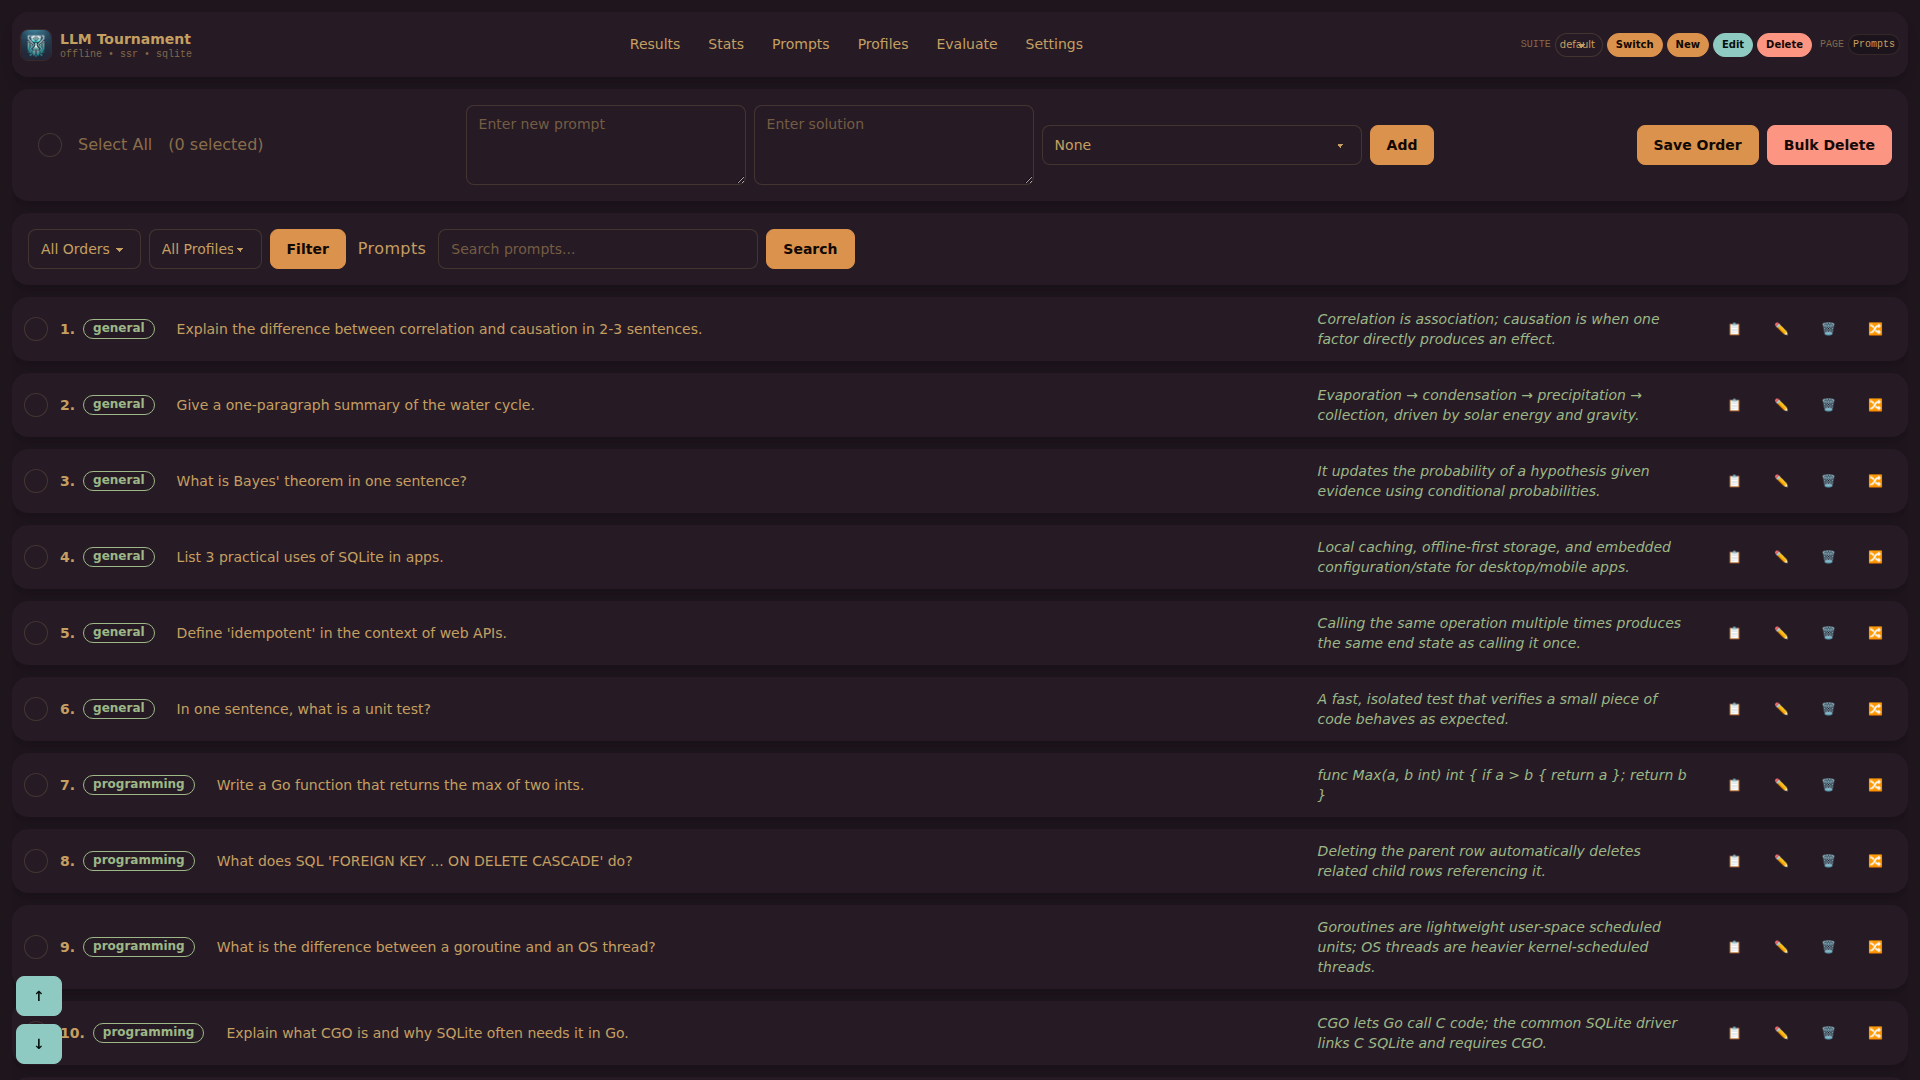
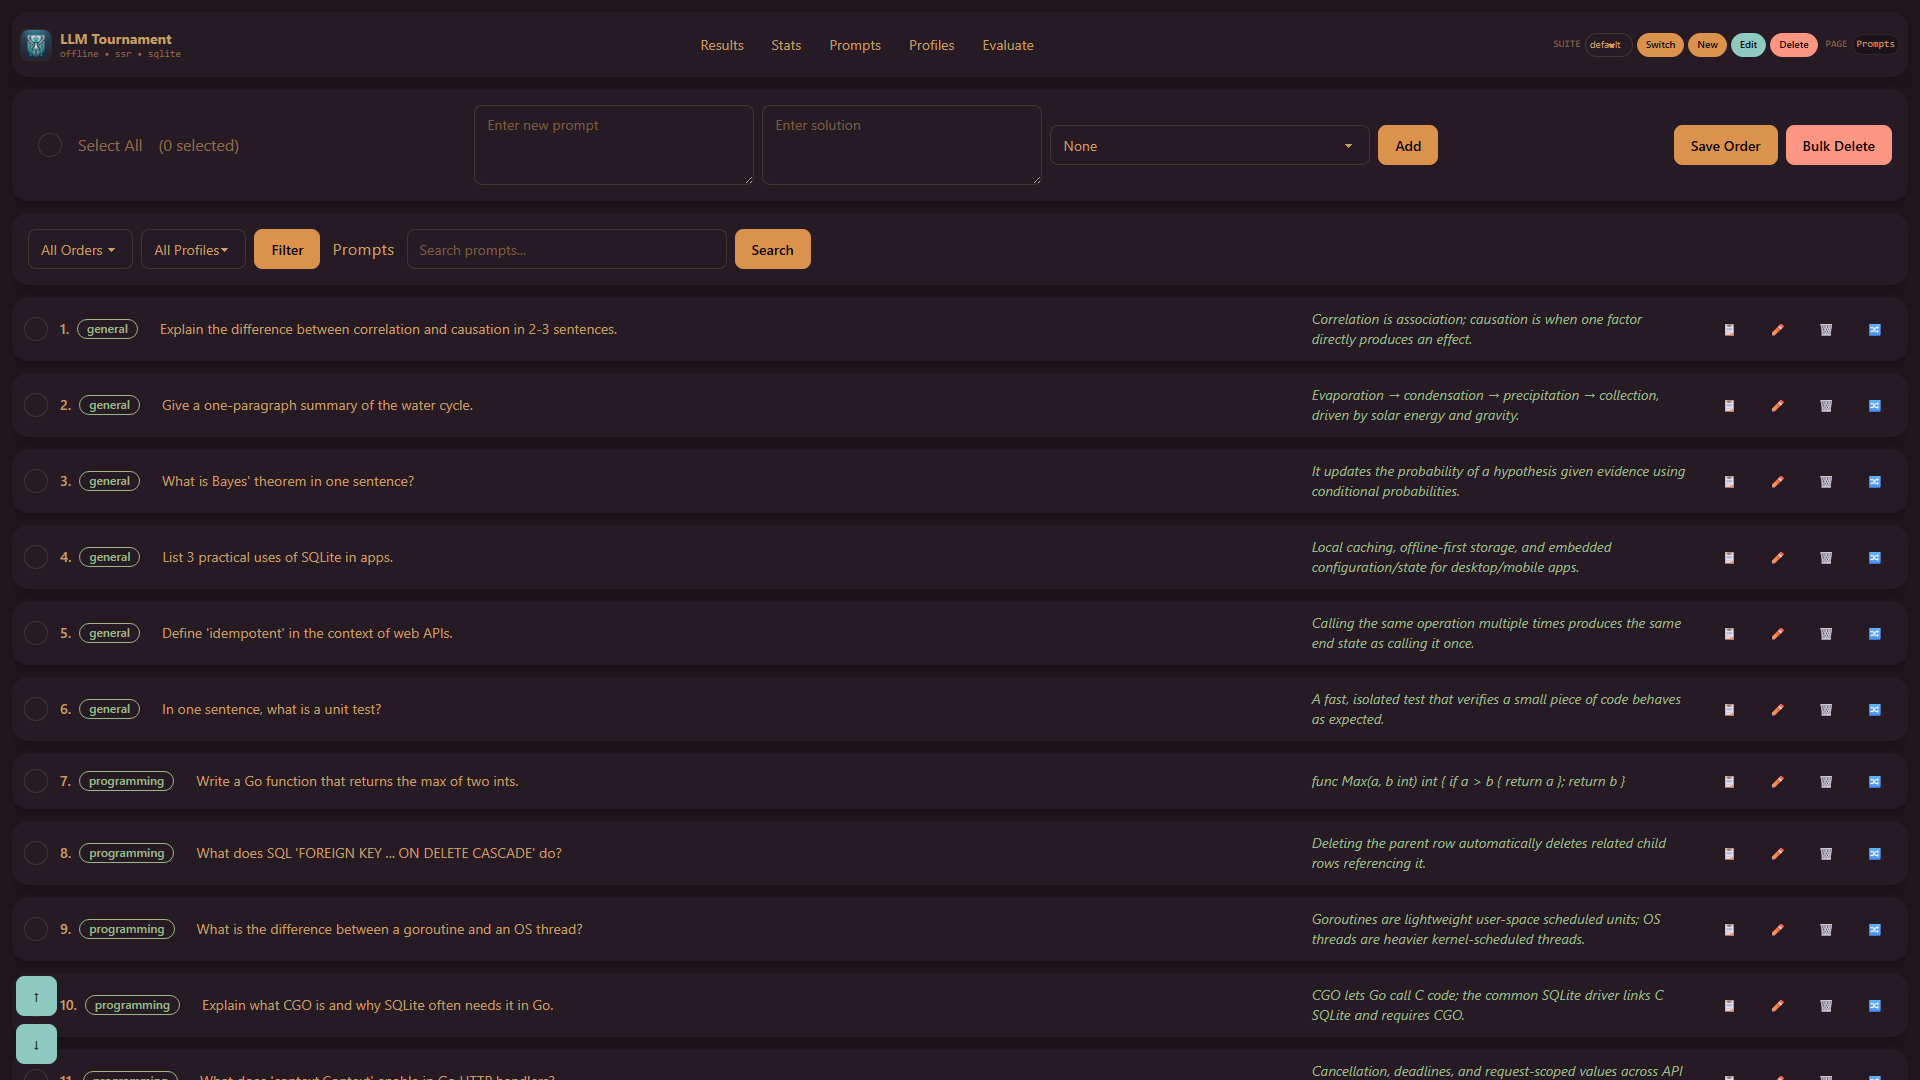
chore: regenerate UI screenshots offline on Playwright 1.62
Pinned to 1.62.0 because its chromium build (rev 1234) is already
cached locally; the 1.63.0 browser download is unreachable from this
network. The settings screenshot is gone with the settings page.

diff --git a/templates/output.css b/templates/output.css
@@ -4476,6 +4476,10 @@
     --tw-shadow: 0 20px 25px -5px var(--tw-shadow-color, rgb(0 0 0 / 0.1)), 0 8px 10px -6px var(--tw-shadow-color, rgb(0 0 0 / 0.1));
     box-shadow: var(--tw-inset-shadow), var(--tw-inset-ring-shadow), var(--tw-ring-offset-shadow), var(--tw-ring-shadow), var(--tw-shadow);
   }
+  .blur {
+    --tw-blur: blur(8px);
+    filter: var(--tw-blur,) var(--tw-brightness,) var(--tw-contrast,) var(--tw-grayscale,) var(--tw-hue-rotate,) var(--tw-invert,) var(--tw-saturate,) var(--tw-sepia,) var(--tw-drop-shadow,);
+  }
   .filter {
     filter: var(--tw-blur,) var(--tw-brightness,) var(--tw-contrast,) var(--tw-grayscale,) var(--tw-hue-rotate,) var(--tw-invert,) var(--tw-saturate,) var(--tw-sepia,) var(--tw-drop-shadow,);
   }
